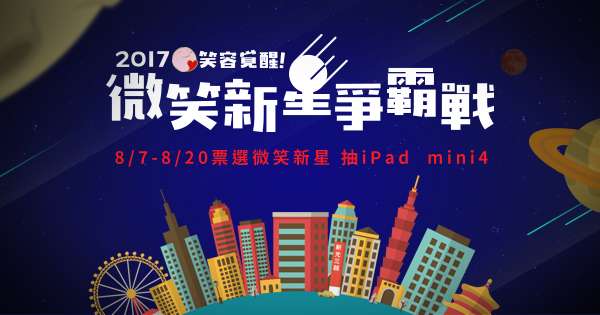
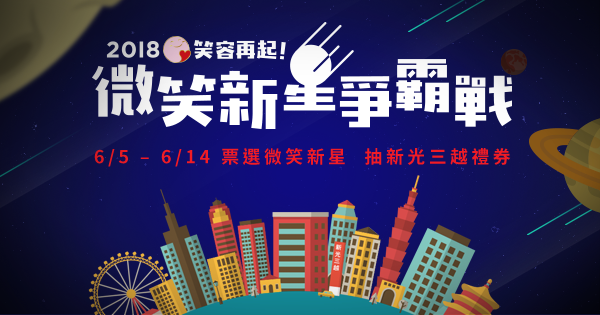
修正fb登入參數錯誤的問題、加上分享圖及調整meta資訊、更新片花頁css及顏色

Changed region(s): [[0.15, 0.0857, 0.87, 0.4286], [0.15, 0.4571, 0.87, 0.5429]]

diff --git a/bundle/index.js b/bundle/index.js
@@ -1,1 +1,1 @@
-"use strict";function _defineProperty(e,o,t){return o in e?Object.defineProperty(e,o,{value:t,enumerable:!0,configurable:!0,writable:!0}):e[o]=t,e}!function(e){e.preload=function(){for(var o=[],t=arguments.length;t--;)o.push(e("<img />").attr("src",arguments[t]))}}(jQuery),function(){var e=$(".part1.earth .house_layer_1"),o=$(".part1.earth .house_layer_2"),t=$(".part1.earth .house_layer_3"),n=$(".part1.earth .land"),a=$(".part1 h1"),i=$(".part1 h2"),l=$(".part1 .pc_only, .part1 .m_only"),s=$(".part1 .btn"),r=$(".part1 .btn, .part1 .dropdown"),c=$(".part1 .planet.p_1"),d=$(".part1 .planet.p_2"),f=$(".part1 .planet.p_3"),p=$(".flyman"),u=$(".part1 .rocket"),h=$(".part1 .satellite"),m=$(".part2 .planetBox ul"),v=$(".part2 .slick"),g=$(".vote .location_name"),b=($(".part2.vote .vote_box"),"top"),k=!!$.cookie("fb_login"),C=!!$.cookie("gplus_login"),w=!1,x=!1,_=!1,y=0;({init:function(){var e=this;$.each(profile,function(e,o){$.preload(o.img1)}),e.updateData(),e.initSlick(),e.initRA(),$(".dropdown dt a").on("click",function(e){menuCtrl.preventAll(e),$(".dropdown dd ul").slideToggle("fast")}),$(".dropdown dd ul li").on("click",function(e){menuCtrl.preventAll(e);var o=$(this).find("a").text(),t=$(this).index();y=t,_=!0,$(".dropdown dt a").text(o),$(".dropdown dd ul").hide()}),s.click(function(o){menuCtrl.preventAll(o),menuCtrl.timeStart()?menuCtrl.timesUp()?alert("此投票活動已結束，感謝您的熱情參與！"):_?(e.outStage(),$(".part1 .btn .shape").toggleClass("shape_border")):alert("請先選擇分店！"):alert("現在投票還沒有開始喔！\n\n請於\n106年 8月  7日（一）11:00～\n106年 8月20日（日）23:59\n\n蒞臨本站一天一票，支持您心目中的候選人！")}),$(".pop .close, .store_list .close, .warn .close").on("click",function(e){menuCtrl.preventAll(e),w=!1;var o=$(this).parent("div");o.hasClass("login")&&gaclick("login_x"),o.hasClass("final_check")&&gaclick("vote_go_x"),$(this).parent("div").fadeOut("fast",function(){$(".store_list").css("z-index",501)}),x?$(".pop_black").fadeOut("fast"):$(".black").fadeOut("fast"),x=!1}),$(window).on("resize",function(){e.indexResize()}).on("load",function(){if($("header, .wrap").removeClass("opacity"),e.inStage(),e.indexResize(),!menuCtrl.chkDevice()){var o;TweenMax.from(u,2,(o={top:"30%",left:"50%",opacity:0,delay:.35,transform:"scale(.5) rotate(-90deg)"},_defineProperty(o,"delay",.75),_defineProperty(o,"ease",Power2.easeOut),_defineProperty(o,"onComplete",function(){TweenMax.set(u,{clearProps:"all"})}),o))}$(".loading").delay(300).fadeOut("fast")}),gapage("index")},indexResize:function(){$(window).width()>600?p.addClass("move"):(b="mobile",p.removeClass("move"))},updateData:function(){$.get("../api/angel_list",function(e){$.each(e,function(e,o){profile[e].vote_cnt=o.vote_cnt})})},outStage:function(){gaclick("index_vote");var s=this;TweenMax.staggerTo([e,o,t],.5,{scaleY:0,y:200,ease:Back.easeIn},.1),TweenMax.to(n,.5,{y:200,ease:Back.easeIn,delay:.3}),TweenMax.staggerTo([a,i,l],.5,{opacity:0,y:-100},.2),TweenMax.to(c,.5,{x:-500,ease:Back.easeIn}),TweenMax.staggerTo([d,f],.5,{x:500,ease:Back.easeIn},.1),TweenMax.to(r,.5,{opacity:0}),TweenMax.to(u,1,{top:"-20%",left:"5%",transform:"scale(.1)",ease:Back.easeIn}),TweenMax.to(h,1,{top:"-10%",left:"50%",transform:"scale(.1)",ease:Back.easeIn}),TweenMax.to($(".part1"),.25,{display:"none",opacity:"0",delay:1,onComplete:function(){s.initPart2()}})},inStage:function(){TweenMax.staggerFrom([e,o,t],.5,{scaleY:0,y:200,ease:Back.easeOut,delay:.75},.1),TweenMax.from(n,.5,{y:200,ease:Back.easeOut,delay:.75}),TweenMax.staggerFrom([a,i,l],.5,{opacity:0,y:-100,delay:.75},.2),TweenMax.from(r,.5,{opacity:0,delay:1.25}),TweenMax.from(c,.5,{x:-500,ease:Back.easeOut,delay:.75,onComplete:function(){TweenMax.set(c,{clearProps:"all"})}}),TweenMax.staggerFrom([d,f],.5,{x:500,ease:Back.easeOut,delay:.75,onComplete:function(){TweenMax.set([d,f],{clearProps:"all"})}},.1)},initSlick:function(){v.slick({centerMode:!1,centerPadding:"5px",slidesToShow:3,responsive:[{breakpoint:600,settings:{initialSlide:1,arrows:!1,infinite:!1,centerMode:!0,centerPadding:"33%",slidesToShow:1}}]})},initRA:function(){var e=this;m.roundabout({duration:400,startingChild:0,responsive:!0,minOpacity:1,maxOpacity:1,shape:"rollerCoaster",clickToFocus:!1}).bind("animationStart",function(){var e=m.roundabout("getChildInFocus");if("down"==b){var o=e+1;o>=15&&(o=0),TweenMax.to($(".roundabout-moveable-item").eq(o),.5,{scale:1,filter:"brightness(100%)"}),TweenMax.to($(".roundabout-in-focus"),.5,{scale:.5,filter:"brightness(30%)"})}else if("top"==b){var t=e-1;t<=-1&&(t=14),TweenMax.to($(".roundabout-moveable-item").eq(t),.5,{scale:1,filter:"brightness(100%)"}),TweenMax.to($(".roundabout-in-focus"),.5,{scale:.5,filter:"brightness(30%)"})}TweenMax.to([v,g],.3,{opacity:0,onComplete:function(){v.slick("slickGoTo",1,!0)}})}).bind("animationEnd",function(){var o=m.roundabout("getChildInFocus");$("aside li").find("a").removeClass("focus"),$("aside li").find("a").eq(o).addClass("focus");var t=o+1;e.setProfile(o),gaclick("shop_"+t)}),TweenMax.to($(".roundabout-moveable-item"),.5,{scale:.5,filter:"brightness(30%)"}),TweenMax.to($(".roundabout-in-focus"),.3,{scale:1,filter:"brightness(100%)",onComplete:function(){}})},initPart2:function(){var e=this;e.winWheel(),e.checkChoose(),e.setProfile(y),$.each(profile,function(e,o){$.preload(o.img2,o.img3,o.img4)}),$("aside.part2").removeClass("none"),$("aside li").on("click",function(o){menuCtrl.preventAll(o);var t=$(this).index();m.roundabout("getChildInFocus");$("aside li").find("a").removeClass("focus"),$(this).find("a").addClass("focus"),TweenMax.to($(".roundabout-moveable-item"),.5,{scale:.5,filter:"brightness(30%)",delay:.1}),TweenMax.to($(".roundabout-moveable-item").eq(t),.5,{scale:1,filter:"brightness(100%)",delay:.1}),m.roundabout("animateToChild",t,function(){e.setProfile(t)})}),$(".progress ul li").on("click",function(e){menuCtrl.preventAll(e);var o=$(this).index();trackWaitJump("","general.html?tag="+o)}),$(".store_list p a:eq(0)").on("click",function(o){menuCtrl.preventAll(o),b="top",e.movePlanet(b)}),$(".store_list p a:eq(1)").on("click",function(o){menuCtrl.preventAll(o),b="down",e.movePlanet(b)}),$(".store_list .location").on("click",function(e){menuCtrl.preventAll(e),$(".store_list").css("z-index",710),$(".store_list .name").fadeIn("fast")}),$(".store_list .name li").on("click",function(e){menuCtrl.preventAll(e);var o=$(this).index();$(".store_list").css("z-index",501),$(".store_list .name").fadeOut("fast",function(){TweenMax.to($(".roundabout-moveable-item"),.5,{scale:.5,filter:"brightness(30%)",delay:.1}),TweenMax.to($(".roundabout-moveable-item").eq(o),.5,{scale:1,filter:"brightness(100%)",delay:.1}),m.roundabout("animateToChild",o)})}),v.find(".photo").on("click",function(o){menuCtrl.preventAll(o),w=!0,e.setPersonal($(this).data("index"),$(this).data("type"))}),v.find(".btnVote").on("click",function(o){menuCtrl.preventAll(o);var t=$(this).data("index"),n=$(this).data("type");if(menuCtrl.timesUp())alert("此投票活動已結束，感謝您的熱情參與！");else{if(!k&&!C)return w=!0,$(".pop.login, .black").fadeIn("fast"),void e.openLogin();$.each(profile,function(e,o){o.chooseFG=!1}),e.checkChoose(t,n)}}),$(".progress .finish").on("click",function(e){if(menuCtrl.preventAll(e),!$(this).hasClass("no"))if(w=!0,menuCtrl.timesUp())alert("此投票活動已結束，感謝您的熱情參與！");else{var o=$(".finalCheck li"),t=[$.cookie("choose1"),$.cookie("choose2"),$.cookie("choose3")];$.each(t,function(e,n){o.eq(e).find("img").attr("src",profile[t[e]].img1),o.eq(e).find("h1").text(profile[t[e]].name).append("<span>"+profile[t[e]].store_nm+"</span>"),e===t.length-1&&$(".pop.final_check, .black").fadeIn("fast")}),gaclick("vote_go")}}),$(".finalCheck .votebtn").on("click",function(e){menuCtrl.preventAll(e),menuCtrl.sendData(function(){$(".final_check .finalCheck, .final_check .close").fadeOut("fast",function(){$(".final_check .beenVote").fadeIn("fast")})})}),$(".final_check .beenVote .votebtn").on("click",function(e){menuCtrl.preventAll(e),trackWaitJump("ok_goback","tvc.html")}),TweenMax.to($(".roundabout-moveable-item"),.5,{scale:.5,filter:"brightness(30%)",delay:.1}),TweenMax.to($(".roundabout-moveable-item").eq(y),.5,{scale:1,filter:"brightness(100%)",delay:.1}),m.roundabout("animateToChild",y),TweenMax.to($(".part2"),.5,{opacity:1,delay:.5,onComplete:function(){}})},setProfile:function(e){var o=3*e,t=[$(".vote .vote_box.first"),$(".vote .vote_box.second"),$(".vote .vote_box.third")];g.find(".words").text(profile[o].store_nm),$.each(t,function(e,n){n.find("h2").text(profile[o+e].name),n.find("img").attr("src",profile[o+e].img1),n.find(".vote_cnt").text(profile[o+e].vote_cnt),n.find(".photo").data("index",profile[o+e].index).data("type",profile[o+e].store_tp),n.find(".btnVote").data("index",profile[o+e].index).data("type",profile[o+e].store_tp),1==profile[o+e].chooseFG?(n.find(".btnVote").addClass("choose"),n.find(".btnVote").find("span").text("已選取"),n.find(".btnVote").find("path").removeClass("shape").removeClass("shape_border")):(n.find(".btnVote").removeClass("choose"),n.find(".btnVote").find("span").html('<b class="icon-love"></b>投票'),n.find(".btnVote").find("path").addClass("shape").addClass("shape_border")),e===t.length-1&&TweenMax.to([v,g],.3,{opacity:1,delay:.35})})},setPersonal:function(e,o){var t=this,n=$(".personal"),a="",i=profile[e].name,l=-1!==location.pathname.split("?")[0].indexOf("html")?location.pathname.split("?")[0]:"/index.html",s="https://"+location.hostname+l+"?name="+i;"A"===o?a="自營組":"B"===o?a="專櫃組":"C"===o&&(a="警衛清潔組"),""===profile[e].img4?$(".personal .photo_block li:eq(3)").addClass("none").hide():$(".personal .photo_block li:eq(3)").removeClass("none").show(),$(".personal .photo_block img").attr("src",profile[e].img2),$(".personal .photo_block li").find("a").removeClass("focus").eq(0).addClass("focus"),$(".personal .photo_block li").off("click"),$(".personal .votebtn").off("click"),n.find("h1").text(profile[e].name).append("<span>"+profile[e].store_nm+" / "+profile[e].career_nm+"</span>"),n.find("h2").text(profile[e].service_words),n.find(".tag").text(a),n.find(".vote_cnt").text(profile[e].vote_cnt),n.find(".votebtn").data("index",profile[e].index).data("type",profile[e].store_tp),n.find(".fb_comment").html('<fb:comments href="'+s+'" num_posts="5" width="100%"></fb:comments>'),FB.XFBML.parse(n.find(".fb_comment")[0]),$(".personal .photo_block li").on("click",function(o){if(menuCtrl.preventAll(o),!$(this).find("a").hasClass("focus")){var t=$(this).index()+2;$(".personal .photo_block li").find("a").removeClass("focus"),$(this).find("a").addClass("focus"),t>$(".personal .photo_block li:not(.none)").size()&&(t=1),TweenMax.to($(".personal .photo_block img"),.3,{opacity:0,onComplete:function(){$(".personal .photo_block img").attr("src",profile[e]["img"+t]),TweenMax.to($(".personal .photo_block img"),.3,{opacity:1})}})}}),$(".personal .votebtn").on("click",function(e){menuCtrl.preventAll(e);var o=$(this).data("index"),n=$(this).data("type");if(menuCtrl.timesUp())alert("此投票活動已結束，感謝您的熱情參與！");else{if(!k&&!C)return w=!0,x=!0,$(".pop.login, .pop_black").fadeIn("fast"),void t.openLogin();t.checkChoose(o,n),$(".pop.personal, .black").delay(100).fadeOut("fast")}}),$(".pop.personal, .black").fadeIn("fast")},openLogin:function(){$(".login_fb").on("click",function(e){menuCtrl.preventAll(e),menuCtrl.fbLogin()}),menuCtrl.googleLogin($(".login_google"))},checkChoose:function(e,o){var t=this;if(menuCtrl.timesUp())alert("此投票活動已結束，感謝您的熱情參與！");else{"A"===o?$.cookie("choose1",e):"B"===o?$.cookie("choose2",e):"C"===o&&$.cookie("choose3",e);var n=$.cookie("choose1"),a=$.cookie("choose2"),i=$.cookie("choose3"),l=[n,a,i],s=e?parseInt(e):0,r=parseInt(Math.floor(s/3));$.each(l,function(e,o){o&&(profile[o].chooseFG=!0),e==l.length-1&&t.setProfile(r)}),n?$(".progress .icon-checkmark:eq(0)").removeClass("unfinish"):$(".progress .icon-checkmark:eq(0)").addClass("unfinish"),a?$(".progress .icon-checkmark:eq(1)").removeClass("unfinish"):$(".progress .icon-checkmark:eq(1)").addClass("unfinish"),i?$(".progress .icon-checkmark:eq(2)").removeClass("unfinish"):$(".progress .icon-checkmark:eq(2)").addClass("unfinish"),n&&a&&i&&$(".progress .finish").removeClass("no")}},winWheel:function(){function e(e){o&&window.clearTimeout(o),w||resizeFG||(o=window.setTimeout(function(){e=e||window.event,b=e.wheelDelta<=0||e.detail>0?"down":"top",t.movePlanet(b)},250))}var o,t=this;"onmousewheel"in window?window.onmousewheel=e:"onmousewheel"in document?document.onmousewheel=e:"addEventListener"in window&&(window.addEventListener("mousewheel",e,!1),window.addEventListener("DOMMouseScroll",e,!1))},movePlanet:function(e){var o=m.roundabout("getChildInFocus");(o="top"==e?o-1:o+1)>=15&&(o=0),o<=-1&&(o=14),m.roundabout("animateToChild",o)}}).init()}();
+"use strict";function _defineProperty(e,o,n){return o in e?Object.defineProperty(e,o,{value:n,enumerable:!0,configurable:!0,writable:!0}):e[o]=n,e}var fb_login=!!$.cookie("fb_login"),gplus_login=!!$.cookie("gplus_login"),innerFG=!1;!function(e){e.preload=function(){for(var o=[],n=arguments.length;n--;)o.push(e("<img />").attr("src",arguments[n]))}}(jQuery),function(){var e=$(".part1.earth .house_layer_1"),o=$(".part1.earth .house_layer_2"),n=$(".part1.earth .house_layer_3"),t=$(".part1.earth .land"),a=$(".part1 h1"),i=$(".part1 h2"),l=$(".part1 .pc_only, .part1 .m_only"),s=$(".part1 .btn"),r=$(".part1 .btn, .part1 .dropdown"),c=$(".part1 .planet.p_1"),d=$(".part1 .planet.p_2"),f=$(".part1 .planet.p_3"),p=$(".flyman"),u=$(".part1 .rocket"),h=$(".part1 .satellite"),m=$(".part2 .planetBox ul"),g=$(".part2 .slick"),v=$(".vote .location_name"),b=($(".part2.vote .vote_box"),"top"),k=!1,C=!1,_=0;({init:function(){var e=this;$.each(profile,function(e,o){$.preload(o.img1)}),e.updateData(),e.initSlick(),e.initRA(),$(".dropdown dt a").on("click",function(e){menuCtrl.preventAll(e),$(".dropdown dd ul").slideToggle("fast")}),$(".dropdown dd ul li").on("click",function(e){menuCtrl.preventAll(e);var o=$(this).find("a").text(),n=$(this).index();_=n,C=!0,$(".dropdown dt a").text(o),$(".dropdown dd ul").hide()}),s.click(function(o){menuCtrl.preventAll(o),menuCtrl.timeStart()?menuCtrl.timesUp()?alert("此投票活動已結束，感謝您的熱情參與！"):C?(e.outStage(),$(".part1 .btn .shape").toggleClass("shape_border")):alert("請先選擇分店！"):alert("現在投票還沒有開始喔！\n\n請於\n106年 8月  7日（一）11:00～\n106年 8月20日（日）23:59\n\n蒞臨本站一天一票，支持您心目中的候選人！")}),$(".pop .close, .store_list .close, .warn .close").on("click",function(e){menuCtrl.preventAll(e),k=!1;var o=$(this).parent("div");o.hasClass("login")&&gaclick("login_x"),o.hasClass("final_check")&&gaclick("vote_go_x"),$(this).parent("div").fadeOut("fast",function(){$(".store_list").css("z-index",501)}),innerFG?$(".pop_black").fadeOut("fast"):$(".black").fadeOut("fast"),innerFG=!1}),$(window).on("resize",function(){e.indexResize()}).on("load",function(){if($("header, .wrap").removeClass("opacity"),e.inStage(),e.indexResize(),!menuCtrl.chkDevice()){var o;TweenMax.from(u,2,(o={top:"30%",left:"50%",opacity:0,delay:.35,transform:"scale(.5) rotate(-90deg)"},_defineProperty(o,"delay",.75),_defineProperty(o,"ease",Power2.easeOut),_defineProperty(o,"onComplete",function(){TweenMax.set(u,{clearProps:"all"})}),o))}$(".loading").delay(300).fadeOut("fast")}),gapage("index")},indexResize:function(){$(window).width()>600?p.addClass("move"):(b="mobile",p.removeClass("move"))},updateData:function(){$.get("../api/angel_list",function(e){$.each(e,function(e,o){profile[e].vote_cnt=o.vote_cnt})})},outStage:function(){gaclick("index_vote");var s=this;TweenMax.staggerTo([e,o,n],.5,{scaleY:0,y:200,ease:Back.easeIn},.1),TweenMax.to(t,.5,{y:200,ease:Back.easeIn,delay:.3}),TweenMax.staggerTo([a,i,l],.5,{opacity:0,y:-100},.2),TweenMax.to(c,.5,{x:-500,ease:Back.easeIn}),TweenMax.staggerTo([d,f],.5,{x:500,ease:Back.easeIn},.1),TweenMax.to(r,.5,{opacity:0}),TweenMax.to(u,1,{top:"-20%",left:"5%",transform:"scale(.1)",ease:Back.easeIn}),TweenMax.to(h,1,{top:"-10%",left:"50%",transform:"scale(.1)",ease:Back.easeIn}),TweenMax.to($(".part1"),.25,{display:"none",opacity:"0",delay:1,onComplete:function(){s.initPart2()}})},inStage:function(){TweenMax.staggerFrom([e,o,n],.5,{scaleY:0,y:200,ease:Back.easeOut,delay:.75},.1),TweenMax.from(t,.5,{y:200,ease:Back.easeOut,delay:.75}),TweenMax.staggerFrom([a,i,l],.5,{opacity:0,y:-100,delay:.75},.2),TweenMax.from(r,.5,{opacity:0,delay:1.25}),TweenMax.from(c,.5,{x:-500,ease:Back.easeOut,delay:.75,onComplete:function(){TweenMax.set(c,{clearProps:"all"})}}),TweenMax.staggerFrom([d,f],.5,{x:500,ease:Back.easeOut,delay:.75,onComplete:function(){TweenMax.set([d,f],{clearProps:"all"})}},.1)},initSlick:function(){g.slick({centerMode:!1,centerPadding:"5px",slidesToShow:3,responsive:[{breakpoint:600,settings:{initialSlide:1,arrows:!1,infinite:!1,centerMode:!0,centerPadding:"33%",slidesToShow:1}}]})},initRA:function(){var e=this;m.roundabout({duration:400,startingChild:0,responsive:!0,minOpacity:1,maxOpacity:1,shape:"rollerCoaster",clickToFocus:!1}).bind("animationStart",function(){var e=m.roundabout("getChildInFocus");if("down"==b){var o=e+1;o>=15&&(o=0),TweenMax.to($(".roundabout-moveable-item").eq(o),.5,{scale:1,filter:"brightness(100%)"}),TweenMax.to($(".roundabout-in-focus"),.5,{scale:.5,filter:"brightness(30%)"})}else if("top"==b){var n=e-1;n<=-1&&(n=14),TweenMax.to($(".roundabout-moveable-item").eq(n),.5,{scale:1,filter:"brightness(100%)"}),TweenMax.to($(".roundabout-in-focus"),.5,{scale:.5,filter:"brightness(30%)"})}TweenMax.to([g,v],.3,{opacity:0,onComplete:function(){g.slick("slickGoTo",1,!0)}})}).bind("animationEnd",function(){var o=m.roundabout("getChildInFocus");$("aside li").find("a").removeClass("focus"),$("aside li").find("a").eq(o).addClass("focus");var n=o+1;e.setProfile(o),gaclick("shop_"+n)}),TweenMax.to($(".roundabout-moveable-item"),.5,{scale:.5,filter:"brightness(30%)"}),TweenMax.to($(".roundabout-in-focus"),.3,{scale:1,filter:"brightness(100%)",onComplete:function(){}})},initPart2:function(){var e=this;e.winWheel(),e.checkChoose(),e.setProfile(_),$.each(profile,function(e,o){$.preload(o.img2,o.img3,o.img4)}),$("aside.part2").removeClass("none"),$("aside li").on("click",function(o){menuCtrl.preventAll(o);var n=$(this).index();m.roundabout("getChildInFocus");$("aside li").find("a").removeClass("focus"),$(this).find("a").addClass("focus"),TweenMax.to($(".roundabout-moveable-item"),.5,{scale:.5,filter:"brightness(30%)",delay:.1}),TweenMax.to($(".roundabout-moveable-item").eq(n),.5,{scale:1,filter:"brightness(100%)",delay:.1}),m.roundabout("animateToChild",n,function(){e.setProfile(n)})}),$(".progress ul li").on("click",function(e){menuCtrl.preventAll(e);var o=$(this).index();trackWaitJump("","general.html?tag="+o)}),$(".store_list p a:eq(0)").on("click",function(o){menuCtrl.preventAll(o),b="top",e.movePlanet(b)}),$(".store_list p a:eq(1)").on("click",function(o){menuCtrl.preventAll(o),b="down",e.movePlanet(b)}),$(".store_list .location").on("click",function(e){menuCtrl.preventAll(e),$(".store_list").css("z-index",710),$(".store_list .name").fadeIn("fast")}),$(".store_list .name li").on("click",function(e){menuCtrl.preventAll(e);var o=$(this).index();$(".store_list").css("z-index",501),$(".store_list .name").fadeOut("fast",function(){TweenMax.to($(".roundabout-moveable-item"),.5,{scale:.5,filter:"brightness(30%)",delay:.1}),TweenMax.to($(".roundabout-moveable-item").eq(o),.5,{scale:1,filter:"brightness(100%)",delay:.1}),m.roundabout("animateToChild",o)})}),g.find(".photo").on("click",function(o){menuCtrl.preventAll(o),k=!0,e.setPersonal($(this).data("index"),$(this).data("type"))}),g.find(".btnVote").on("click",function(o){menuCtrl.preventAll(o);var n=$(this).data("index"),t=$(this).data("type");if(menuCtrl.timesUp())alert("此投票活動已結束，感謝您的熱情參與！");else{if(!fb_login&&!gplus_login)return k=!0,$(".pop.login, .black").fadeIn("fast"),void e.openLogin();$.each(profile,function(e,o){o.chooseFG=!1}),e.checkChoose(n,t)}}),$(".progress .finish").on("click",function(e){if(menuCtrl.preventAll(e),!$(this).hasClass("no"))if(k=!0,menuCtrl.timesUp())alert("此投票活動已結束，感謝您的熱情參與！");else{var o=$(".finalCheck li"),n=[$.cookie("choose1"),$.cookie("choose2"),$.cookie("choose3")];$.each(n,function(e,t){o.eq(e).find("img").attr("src",profile[n[e]].img1),o.eq(e).find("h1").text(profile[n[e]].name).append("<span>"+profile[n[e]].store_nm+"</span>"),e===n.length-1&&$(".pop.final_check, .black").fadeIn("fast")}),gaclick("vote_go")}}),$(".finalCheck .votebtn").on("click",function(e){menuCtrl.preventAll(e),menuCtrl.sendData(function(){$(".final_check .finalCheck, .final_check .close").fadeOut("fast",function(){$(".final_check .beenVote").fadeIn("fast")})})}),$(".final_check .beenVote .votebtn").on("click",function(e){menuCtrl.preventAll(e),trackWaitJump("ok_goback","tvc.html")}),TweenMax.to($(".roundabout-moveable-item"),.5,{scale:.5,filter:"brightness(30%)",delay:.1}),TweenMax.to($(".roundabout-moveable-item").eq(_),.5,{scale:1,filter:"brightness(100%)",delay:.1}),m.roundabout("animateToChild",_),TweenMax.to($(".part2"),.5,{opacity:1,delay:.5,onComplete:function(){}})},setProfile:function(e){var o=3*e,n=[$(".vote .vote_box.first"),$(".vote .vote_box.second"),$(".vote .vote_box.third")];v.find(".words").text(profile[o].store_nm),$.each(n,function(e,t){t.find("h2").text(profile[o+e].name),t.find("img").attr("src",profile[o+e].img1),t.find(".vote_cnt").text(profile[o+e].vote_cnt),t.find(".photo").data("index",profile[o+e].index).data("type",profile[o+e].store_tp),t.find(".btnVote").data("index",profile[o+e].index).data("type",profile[o+e].store_tp),1==profile[o+e].chooseFG?(t.find(".btnVote").addClass("choose"),t.find(".btnVote").find("span").text("已選取"),t.find(".btnVote").find("path").removeClass("shape").removeClass("shape_border")):(t.find(".btnVote").removeClass("choose"),t.find(".btnVote").find("span").html('<b class="icon-love"></b>投票'),t.find(".btnVote").find("path").addClass("shape").addClass("shape_border")),e===n.length-1&&TweenMax.to([g,v],.3,{opacity:1,delay:.35})})},setPersonal:function(e,o){var n=this,t=$(".personal"),a="",i=profile[e].name,l=-1!==location.pathname.split("?")[0].indexOf("html")?location.pathname.split("?")[0]:"/index.html",s="https://"+location.hostname+l+"?name="+i;"A"===o?a="自營組":"B"===o?a="專櫃組":"C"===o&&(a="警衛清潔組"),""===profile[e].img4?$(".personal .photo_block li:eq(3)").addClass("none").hide():$(".personal .photo_block li:eq(3)").removeClass("none").show(),$(".personal .photo_block img").attr("src",profile[e].img2),$(".personal .photo_block li").find("a").removeClass("focus").eq(0).addClass("focus"),$(".personal .photo_block li").off("click"),$(".personal .votebtn").off("click"),t.find("h1").text(profile[e].name).append("<span>"+profile[e].store_nm+" / "+profile[e].career_nm+"</span>"),t.find("h2").text(profile[e].service_words),t.find(".tag").text(a),t.find(".vote_cnt").text(profile[e].vote_cnt),t.find(".votebtn").data("index",profile[e].index).data("type",profile[e].store_tp),t.find(".fb_comment").html('<fb:comments href="'+s+'" num_posts="5" width="100%"></fb:comments>'),FB.XFBML.parse(t.find(".fb_comment")[0]),$(".personal .photo_block li").on("click",function(o){if(menuCtrl.preventAll(o),!$(this).find("a").hasClass("focus")){var n=$(this).index()+2;$(".personal .photo_block li").find("a").removeClass("focus"),$(this).find("a").addClass("focus"),n>$(".personal .photo_block li:not(.none)").size()&&(n=1),TweenMax.to($(".personal .photo_block img"),.3,{opacity:0,onComplete:function(){$(".personal .photo_block img").attr("src",profile[e]["img"+n]),TweenMax.to($(".personal .photo_block img"),.3,{opacity:1})}})}}),$(".personal .votebtn").on("click",function(e){menuCtrl.preventAll(e);var o=$(this).data("index"),t=$(this).data("type");if(menuCtrl.timesUp())alert("此投票活動已結束，感謝您的熱情參與！");else{if(!fb_login&&!gplus_login)return k=!0,innerFG=!0,$(".pop.login, .pop_black").fadeIn("fast"),void n.openLogin();n.checkChoose(o,t),$(".pop.personal, .black").delay(100).fadeOut("fast")}}),$(".pop.personal, .black").fadeIn("fast")},openLogin:function(){$(".login_fb").on("click",function(e){menuCtrl.preventAll(e),menuCtrl.fbLogin()}),menuCtrl.googleLogin($(".login_google"))},checkChoose:function(e,o){var n=this;if(menuCtrl.timesUp())alert("此投票活動已結束，感謝您的熱情參與！");else{"A"===o?$.cookie("choose1",e):"B"===o?$.cookie("choose2",e):"C"===o&&$.cookie("choose3",e);var t=$.cookie("choose1"),a=$.cookie("choose2"),i=$.cookie("choose3"),l=[t,a,i],s=e?parseInt(e):0,r=parseInt(Math.floor(s/3));$.each(l,function(e,o){o&&(profile[o].chooseFG=!0),e==l.length-1&&n.setProfile(r)}),t?$(".progress .icon-checkmark:eq(0)").removeClass("unfinish"):$(".progress .icon-checkmark:eq(0)").addClass("unfinish"),a?$(".progress .icon-checkmark:eq(1)").removeClass("unfinish"):$(".progress .icon-checkmark:eq(1)").addClass("unfinish"),i?$(".progress .icon-checkmark:eq(2)").removeClass("unfinish"):$(".progress .icon-checkmark:eq(2)").addClass("unfinish"),t&&a&&i&&$(".progress .finish").removeClass("no")}},winWheel:function(){function e(e){o&&window.clearTimeout(o),k||resizeFG||(o=window.setTimeout(function(){e=e||window.event,b=e.wheelDelta<=0||e.detail>0?"down":"top",n.movePlanet(b)},250))}var o,n=this;"onmousewheel"in window?window.onmousewheel=e:"onmousewheel"in document?document.onmousewheel=e:"addEventListener"in window&&(window.addEventListener("mousewheel",e,!1),window.addEventListener("DOMMouseScroll",e,!1))},movePlanet:function(e){var o=m.roundabout("getChildInFocus");(o="top"==e?o-1:o+1)>=15&&(o=0),o<=-1&&(o=14),m.roundabout("animateToChild",o)}}).init()}();

diff --git a/bundle/menu.js b/bundle/menu.js
@@ -1,1 +1,1 @@
-"use strict";function _defineProperty(e,o,t){return o in e?Object.defineProperty(e,o,{value:t,enumerable:!0,configurable:!0,writable:!0}):e[o]=t,e}!function(e,o,t){var n,i=e.getElementsByTagName(o)[0];e.getElementById(t)||((n=e.createElement(o)).id=t,n.src="//connect.facebook.net/zh_TW/all.js#xfbml=1",i.parentNode.insertBefore(n,i),window.fbAsyncInit=function(){FB.init({appId:"smileangel.skm.com.tw"==location.hostname?"1423502524421148":"164375064234305",xfbml:!0,version:"v2.12"})})}(document,"script","facebook-jssdk");var resizeFG=!1,menuCtrl={init:function(){var e=this;"https:"!=location.protocol&&this.chkProtocol(),this.chkIE8()<=8?location.href="ie8/":(menuCtrl.timesUp()&&$("header nav li").eq(4).removeClass("none"),this.timeStart()&&this.menuSet(),this.resize(),this.starSet(),menuCtrl.chkWebview()&&$(".warn").show(),$(window).on("resize",function(){e.resize(),e.starSet()}))},timeStart:function(){var e="smileangel.skm.com.tw"==location.hostname?Date.parse("2018/06/05 11:00:00").valueOf():Date.parse("2018/04/30 00:00:00").valueOf();return Date.parse(new Date).valueOf()>=e},timesUp:function(){var e=Date.parse("2018/06/15 00:00:00").valueOf();return Date.parse(new Date).valueOf()>=e},menuSet:function(){var e=this;$(".menu").on("click",function(o){e.preventAll(o),$(this).toggleClass("open"),$("header nav").fadeToggle("fast")}),$("header p").css("cursor","pointer").on("click",function(o){e.preventAll(o),gaclick("menu_logo"),window.open("http://www.skm.com.tw/","_blank")}),$("header nav li").on("click",function(o){switch(e.preventAll(o),$(this).index()){case 0:trackWaitJump("menu_index","index.html");break;case 1:trackWaitJump("menu_rule","activity.html");break;case 2:trackWaitJump("menu_votelist","general.html");break;case 3:trackWaitJump("","tvc.html");break;case 4:trackWaitJump("","award.html");break;case 5:gaclick("menu_fbshare"),e.shareFB();break;case 6:gaclick("menu_gshare"),e.shareGplus()}})},starSet:function(){var e=["one","two","three","four"],o=$(".main .meteor span");$(window).width()>600?$.each(o,function(o,t){$(t).addClass(e[o])}):$.each(o,function(o,t){$(t).removeClass(e[o])})},resize:function(){$(window).width()>600?($("header nav").show(),$(".menu").removeClass("open"),resizeFG=!1):($(".menu").hasClass("open")||$("header nav").hide(),resizeFG=!0)},preventAll:function(e){e.stopPropagation(),e.preventDefault()},fbLogin:function(e){var o=this;void 0!==e&&e.click(function(e){o.preventAll(e)}),gaclick("login_fb"),FB.login(function(e){"connected"===e.status&&FB.api("/me","GET",{fields:"id,name,email"},function(e){$.cookie("type","Facebook"),$.cookie("name",e.name),$.cookie("email",e.email),$.cookie("id",e.id),$.cookie("fb_login",!0),fb_login=!0,innerFG?$(".pop.login .close").click():$(".pop .close").click()})},{scope:"email"})},googleLogin:function(e){var o=this;gapi.load("auth2",function(){var t=gapi.auth2.init({clientId:"704654834388-3cclus6faj1vg3p9lenfdrd8pkbtq2gt.apps.googleusercontent.com"});e.on("click",function(e){o.preventAll(e),gaclick("login_google"),t.signIn().then(function(e){var o=e.getBasicProfile();o&&($.cookie("type","Google"),$.cookie("name",o.getName()),$.cookie("email",o.getEmail()),$.cookie("id",o.getId()),$.cookie("gplus_login",!0),gplus_login=!0,innerFG?$(".pop.login .close").click():$(".pop .close").click())})})})},shareFB:function(){var e,o=this.chkDevice()?"http://m.facebook.com/sharer.php?u=":"http://www.facebook.com/sharer.php?u=";e=location.href+"?fb_back=1",window.open(o+encodeURIComponent(e),"sharer","toolbar=0,status=0,width=656,height=436")},shareGplus:function(){var e;e=location.href+"?gplus_back=1",window.open("https://plus.google.com/share?url="+encodeURIComponent(e),"sharer","toolbar=0,status=0,width=656,height=436")},sendData:function(e){var o;if(void 0===e&&(e=null),menuCtrl.timesUp())alert("此投票活動已結束，感謝您的熱情參與！\n\n活動將於106年9月4日(一)抽獎\n得獎通知將於106年9月8日(五)以E-MAIL寄發通知\n\n請您密切注意，謝謝。");else{var t,n,i,a,c,r,l=grecaptcha.getResponse(),s=$(".read #checkbox-1").prop("checked");0!==l.length?s?(gaclick("vote_ok"),t=$.cookie("type"),n=$.cookie("name"),i=$.cookie("email")?$.cookie("email"):"",a=$.cookie("id"),c=$.cookie("choose1")+","+$.cookie("choose2")+","+$.cookie("choose3"),_defineProperty(o={type:t,name:n,email:i,uid:a},"type",t),_defineProperty(o,"choose",c),_defineProperty(o,"google",l),r=o,$.ajax({method:"POST",url:"../api/vote",data:r,success:function(o){"200"==o.status?($.removeCookie("choose1"),$.removeCookie("choose2"),$.removeCookie("choose3")):"110"==o.status&&$(".final_check .beenVote h2").text("您今日已投過票囉！"),e&&e()},error:function(e){alert("系統繁忙，請稍候再試，謝謝！")}})):alert("請閱讀並同意活動辦法及個人資料公開授權!"):alert("請使用google驗證!")}},chkDevice:function(e){var o=!1;return(isMobile.phone||isMobile.tablet||$(window).width()<=600&&1===e)&&(o=!0),o},chkWebview:function(){var e=window.navigator.userAgent.toLowerCase(),o=window.navigator.standalone,t=/safari/.test(e),n=/fbid|fbios|fblc|fb_iab|fb4a|fbav/.test(e),i=/line/i.test(e),a=!1;return/iphone|ipod|ipad/.test(e)&&(!o&&t||o&&!t||o||t||(a=!0)),a||n||i},chkIE8:function(){var e=navigator.userAgent,o=e.indexOf("compatible")>-1&&e.indexOf("MSIE")>-1,t=e.indexOf("Edge")>-1&&!o,n=e.indexOf("Trident")>-1&&e.indexOf("rv:11.0")>-1;if(o){new RegExp("MSIE (\\d+\\.\\d+);").test(e);var i=parseFloat(RegExp.$1);return 7==i?7:8==i?8:9==i?9:10==i?10:6}return t?12:n?11:13},chkProtocol:function(){var e=location.href;e=e?e.replace("http","https"):location.href,"smileangel.skm.com.tw"==location.hostname&&(location.href=e)}};$(function(){menuCtrl.init()});
+"use strict";function _defineProperty(e,o,t){return o in e?Object.defineProperty(e,o,{value:t,enumerable:!0,configurable:!0,writable:!0}):e[o]=t,e}!function(e,o,t){var n,i=e.getElementsByTagName(o)[0];e.getElementById(t)||((n=e.createElement(o)).id=t,n.src="//connect.facebook.net/zh_TW/all.js#xfbml=1",i.parentNode.insertBefore(n,i),window.fbAsyncInit=function(){FB.init({appId:"smileangel.skm.com.tw"==location.hostname?"1423502524421148":"164375064234305",xfbml:!0,version:"v2.12"})})}(document,"script","facebook-jssdk");var resizeFG=!1,menuCtrl={init:function(){var e=this;"https:"!=location.protocol&&this.chkProtocol(),this.chkIE8()<=8?location.href="ie8/":(this.timesUp()&&$("header nav li").eq(4).removeClass("none"),this.timeStart()&&this.menuSet(),this.resize(),this.starSet(),menuCtrl.chkWebview()&&$(".warn").show(),$(window).on("resize",function(){e.resize(),e.starSet()}))},timeStart:function(){var e="smileangel.skm.com.tw"==location.hostname?Date.parse("2018/06/05 11:00:00").valueOf():Date.parse("2018/04/30 00:00:00").valueOf();return Date.parse(new Date).valueOf()>=e},timesUp:function(){var e=Date.parse("2018/06/15 00:00:00").valueOf();return Date.parse(new Date).valueOf()>=e},menuSet:function(){var e=this;$(".menu").on("click",function(o){e.preventAll(o),$(this).toggleClass("open"),$("header nav").fadeToggle("fast")}),$("header p").css("cursor","pointer").on("click",function(o){e.preventAll(o),gaclick("menu_logo"),window.open("http://www.skm.com.tw/","_blank")}),$("header nav li").on("click",function(o){switch(e.preventAll(o),$(this).index()){case 0:trackWaitJump("menu_index","index.html");break;case 1:trackWaitJump("menu_rule","activity.html");break;case 2:trackWaitJump("menu_votelist","general.html");break;case 3:trackWaitJump("","tvc.html");break;case 4:trackWaitJump("","award.html");break;case 5:gaclick("menu_fbshare"),e.shareFB();break;case 6:gaclick("menu_gshare"),e.shareGplus()}})},starSet:function(){var e=["one","two","three","four"],o=$(".main .meteor span");$(window).width()>600?$.each(o,function(o,t){$(t).addClass(e[o])}):$.each(o,function(o,t){$(t).removeClass(e[o])})},resize:function(){$(window).width()>600?($("header nav").show(),$(".menu").removeClass("open"),resizeFG=!1):($(".menu").hasClass("open")||$("header nav").hide(),resizeFG=!0)},preventAll:function(e){e.stopPropagation(),e.preventDefault()},fbLogin:function(e){var o=this;void 0!==e&&e.click(function(e){o.preventAll(e)}),gaclick("login_fb"),FB.login(function(e){"connected"===e.status&&FB.api("/me","GET",{fields:"id,name,email"},function(e){$.cookie("type","Facebook"),$.cookie("name",e.name),$.cookie("email",e.email),$.cookie("id",e.id),$.cookie("fb_login",!0),fb_login=!0,innerFG?$(".pop.login .close").click():$(".pop .close").click()})},{scope:"email"})},googleLogin:function(e){var o=this;gapi.load("auth2",function(){var t=gapi.auth2.init({clientId:"704654834388-3cclus6faj1vg3p9lenfdrd8pkbtq2gt.apps.googleusercontent.com"});e.on("click",function(e){o.preventAll(e),gaclick("login_google"),t.signIn().then(function(e){var o=e.getBasicProfile();o&&($.cookie("type","Google"),$.cookie("name",o.getName()),$.cookie("email",o.getEmail()),$.cookie("id",o.getId()),$.cookie("gplus_login",!0),gplus_login=!0,innerFG?$(".pop.login .close").click():$(".pop .close").click())})})})},shareFB:function(){var e,o=this.chkDevice()?"http://m.facebook.com/sharer.php?u=":"http://www.facebook.com/sharer.php?u=";e=location.href+"?fb_back=1",window.open(o+encodeURIComponent(e),"sharer","toolbar=0,status=0,width=656,height=436")},shareGplus:function(){var e;e=location.href+"?gplus_back=1",window.open("https://plus.google.com/share?url="+encodeURIComponent(e),"sharer","toolbar=0,status=0,width=656,height=436")},sendData:function(e){var o;if(void 0===e&&(e=null),menuCtrl.timesUp())alert("此投票活動已結束，感謝您的熱情參與！\n\n活動將於106年9月4日(一)抽獎\n得獎通知將於106年9月8日(五)以E-MAIL寄發通知\n\n請您密切注意，謝謝。");else{var t,n,i,a,c,r,s=grecaptcha.getResponse(),l=$(".read #checkbox-1").prop("checked");0!==s.length?l?(gaclick("vote_ok"),t=$.cookie("type"),n=$.cookie("name"),i=$.cookie("email")?$.cookie("email"):"",a=$.cookie("id"),c=$.cookie("choose1")+","+$.cookie("choose2")+","+$.cookie("choose3"),_defineProperty(o={type:t,name:n,email:i,uid:a},"type",t),_defineProperty(o,"choose",c),_defineProperty(o,"google",s),r=o,$.ajax({method:"POST",url:"../api/vote",data:r,success:function(o){"200"==o.status?($.removeCookie("choose1"),$.removeCookie("choose2"),$.removeCookie("choose3")):"110"==o.status&&$(".final_check .beenVote h2").text("您今日已投過票囉！"),e&&e()},error:function(e){alert("系統繁忙，請稍候再試，謝謝！")}})):alert("請閱讀並同意活動辦法及個人資料公開授權!"):alert("請使用google驗證!")}},chkDevice:function(e){var o=!1;return(isMobile.phone||isMobile.tablet||$(window).width()<=600&&1===e)&&(o=!0),o},chkWebview:function(){var e=window.navigator.userAgent.toLowerCase(),o=window.navigator.standalone,t=/safari/.test(e),n=/fbid|fbios|fblc|fb_iab|fb4a|fbav/.test(e),i=/line/i.test(e),a=!1;return/iphone|ipod|ipad/.test(e)&&(!o&&t||o&&!t||o||t||(a=!0)),a||n||i},chkIE8:function(){var e=navigator.userAgent,o=e.indexOf("compatible")>-1&&e.indexOf("MSIE")>-1,t=e.indexOf("Edge")>-1&&!o,n=e.indexOf("Trident")>-1&&e.indexOf("rv:11.0")>-1;if(o){new RegExp("MSIE (\\d+\\.\\d+);").test(e);var i=parseFloat(RegExp.$1);return 7==i?7:8==i?8:9==i?9:10==i?10:6}return t?12:n?11:13},chkProtocol:function(){var e=location.href;e=e?e.replace("http","https"):location.href,"smileangel.skm.com.tw"==location.hostname&&(location.href=e)}};$(function(){menuCtrl.init()});

diff --git a/tvc.html b/tvc.html
@@ -9,11 +9,11 @@
         <!-- facebook share -->
         <meta property="og:type" content="website" />
         <meta property="og:title" content="新光三越 | 2018微笑新星爭霸戰" />
-        <meta property="og:url" content="https://smileangel.skm.com.tw/" />
+        <meta property="og:url" content="https://smileangelskm.webgene.com.tw/" />
         <meta property="og:description" content="星際飛船即將再度啟航，6/5~6/14立即投票助您支持的微笑天使登上微笑新星寶座，還有機會抽中新光三越2,000元現金禮券！" />
-        <meta property="og:image" content="https://smileangel.skm.com.tw/img/600x315.png" />
+        <meta property="og:image" content="https://smileangelskm.webgene.com.tw/img/600x315.png?2018" />
         <meta property="fb:app_id" content="1423502524421148" />
-
+        
         <!-- favicon -->
         <link rel="icon" href="img/favicon.ico">
 

diff --git a/activity.html b/activity.html
@@ -9,9 +9,9 @@
         <!-- facebook share -->
         <meta property="og:type" content="website" />
         <meta property="og:title" content="新光三越 | 2018微笑新星爭霸戰" />
-        <meta property="og:url" content="https://smileangel.skm.com.tw/" />
+        <meta property="og:url" content="https://smileangelskm.webgene.com.tw/" />
         <meta property="og:description" content="星際飛船即將再度啟航，6/5~6/14立即投票助您支持的微笑天使登上微笑新星寶座，還有機會抽中新光三越2,000元現金禮券！" />
-        <meta property="og:image" content="https://smileangel.skm.com.tw/img/600x315.png" />
+        <meta property="og:image" content="https://smileangelskm.webgene.com.tw/img/600x315.png?2018" />
         <meta property="fb:app_id" content="1423502524421148" />
 
         <!-- favicon -->

diff --git a/award.html b/award.html
@@ -9,9 +9,9 @@
         <!-- facebook share -->
         <meta property="og:type" content="website" />
         <meta property="og:title" content="新光三越 | 2018微笑新星爭霸戰" />
-        <meta property="og:url" content="https://smileangel.skm.com.tw/" />
+        <meta property="og:url" content="https://smileangelskm.webgene.com.tw/" />
         <meta property="og:description" content="星際飛船即將再度啟航，6/5~6/14立即投票助您支持的微笑天使登上微笑新星寶座，還有機會抽中新光三越2,000元現金禮券！" />
-        <meta property="og:image" content="https://smileangel.skm.com.tw/img/600x315.png" />
+        <meta property="og:image" content="https://smileangelskm.webgene.com.tw/img/600x315.png?2018" />
         <meta property="fb:app_id" content="1423502524421148" />
 
         <!-- favicon -->

diff --git a/general.html b/general.html
@@ -9,9 +9,9 @@
         <!-- facebook share -->
         <meta property="og:type" content="website" />
         <meta property="og:title" content="新光三越 | 2018微笑新星爭霸戰" />
-        <meta property="og:url" content="https://smileangel.skm.com.tw/" />
+        <meta property="og:url" content="https://smileangelskm.webgene.com.tw/" />
         <meta property="og:description" content="星際飛船即將再度啟航，6/5~6/14立即投票助您支持的微笑天使登上微笑新星寶座，還有機會抽中新光三越2,000元現金禮券！" />
-        <meta property="og:image" content="https://smileangel.skm.com.tw/img/600x315.png" />
+        <meta property="og:image" content="https://smileangelskm.webgene.com.tw/img/600x315.png?2018" />
         <meta property="fb:app_id" content="1423502524421148" />
 
         <!-- favicon -->

diff --git a/index.html b/index.html
@@ -9,9 +9,9 @@
         <!-- facebook share -->
         <meta property="og:type" content="website" />
         <meta property="og:title" content="新光三越 | 2018微笑新星爭霸戰" />
-        <meta property="og:url" content="https://smileangel.skm.com.tw/" />
+        <meta property="og:url" content="https://smileangelskm.webgene.com.tw/" />
         <meta property="og:description" content="星際飛船即將再度啟航，6/5~6/14立即投票助您支持的微笑天使登上微笑新星寶座，還有機會抽中新光三越2,000元現金禮券！" />
-        <meta property="og:image" content="https://smileangel.skm.com.tw/img/600x315.png" />
+        <meta property="og:image" content="https://smileangelskm.webgene.com.tw/img/600x315.png?2018" />
         <meta property="fb:app_id" content="1423502524421148" />
 
         <!-- favicon -->

diff --git a/js/index.js b/js/index.js
@@ -1,3 +1,6 @@
+var fb_login = ($.cookie('fb_login')) ? true : false;
+var gplus_login = ($.cookie('gplus_login')) ? true : false;
+var innerFG = false;
 (function(a){a.preload=function(){var c=[],b=arguments.length;for(;b--;){c.push(a("<img />").attr("src",arguments[b]));}};})(jQuery);
 (function(){
     var home1 = $('.part1.earth .house_layer_1');
@@ -25,10 +28,7 @@
 
     var delayTime = .75;
     var wheelPos = "top";
-    var fb_login = ($.cookie('fb_login')) ? true : false;
-    var gplus_login = ($.cookie('gplus_login')) ? true : false;
     var popupOpen = false;
-    var innerFG = false;
 
     var store_fg = false;
     var store_number = 0;

diff --git a/js/menu.js b/js/menu.js
@@ -28,7 +28,7 @@ var menuCtrl = {
             return;
         }
 
-        if(menuCtrl.timesUp()) $('header nav li').eq(4).removeClass('none');
+        if(this.timesUp()) $('header nav li').eq(4).removeClass('none');
         if(this.timeStart()) this.menuSet();
         this.resize();
         this.starSet();

diff --git a/css/style.css b/css/style.css
@@ -3523,7 +3523,7 @@ aside {
       width: 35px;
       height: 35px;
       border-radius: 100%;
-      background-color: #4165AF;
+      background-color: #c81f25;
       position: absolute;
       top: 8%;
       right: -9%;
